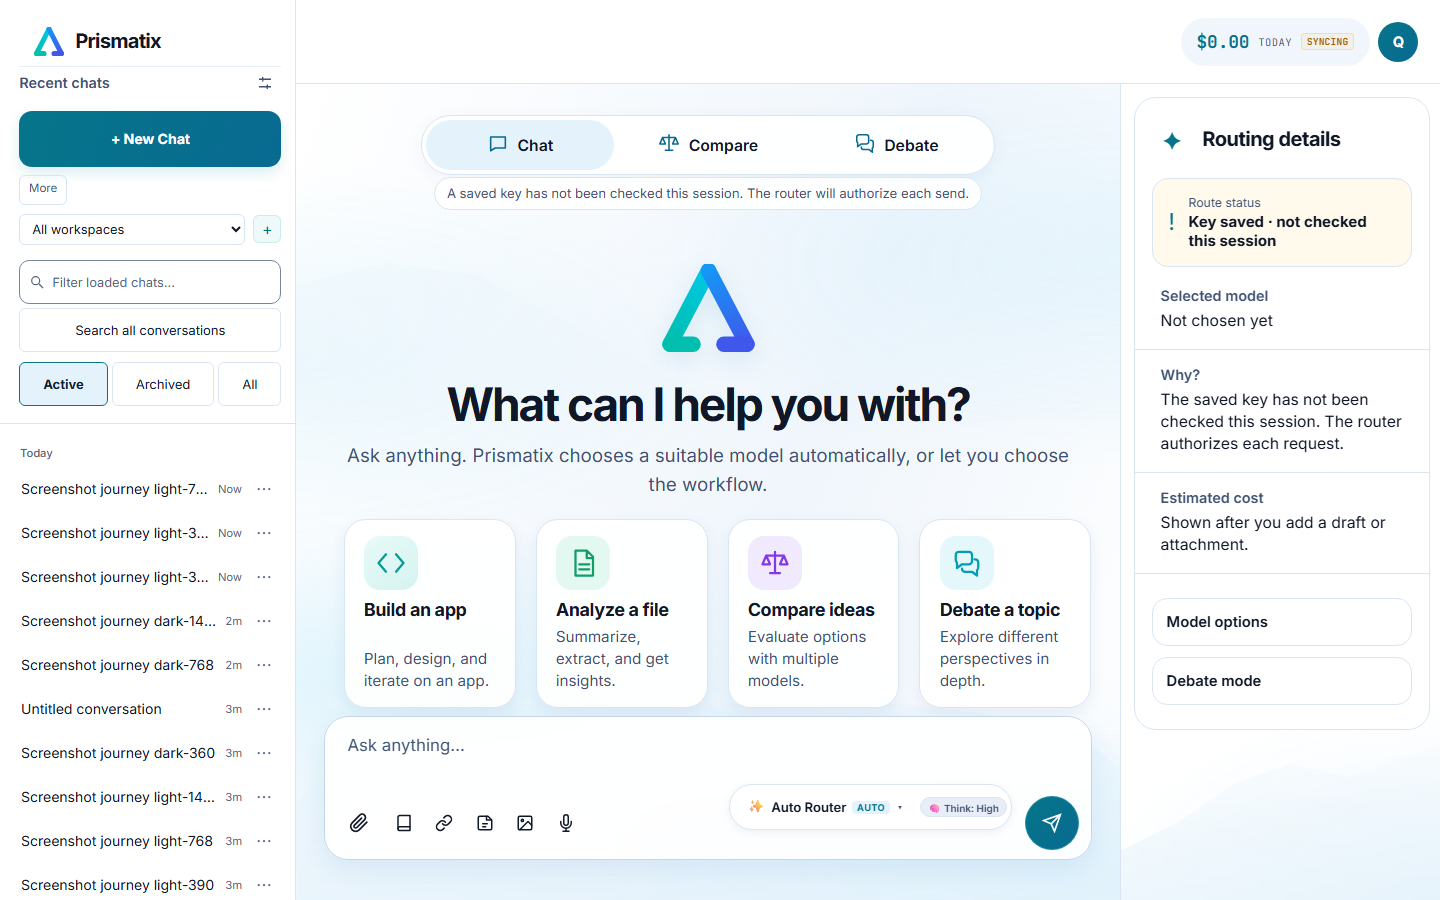
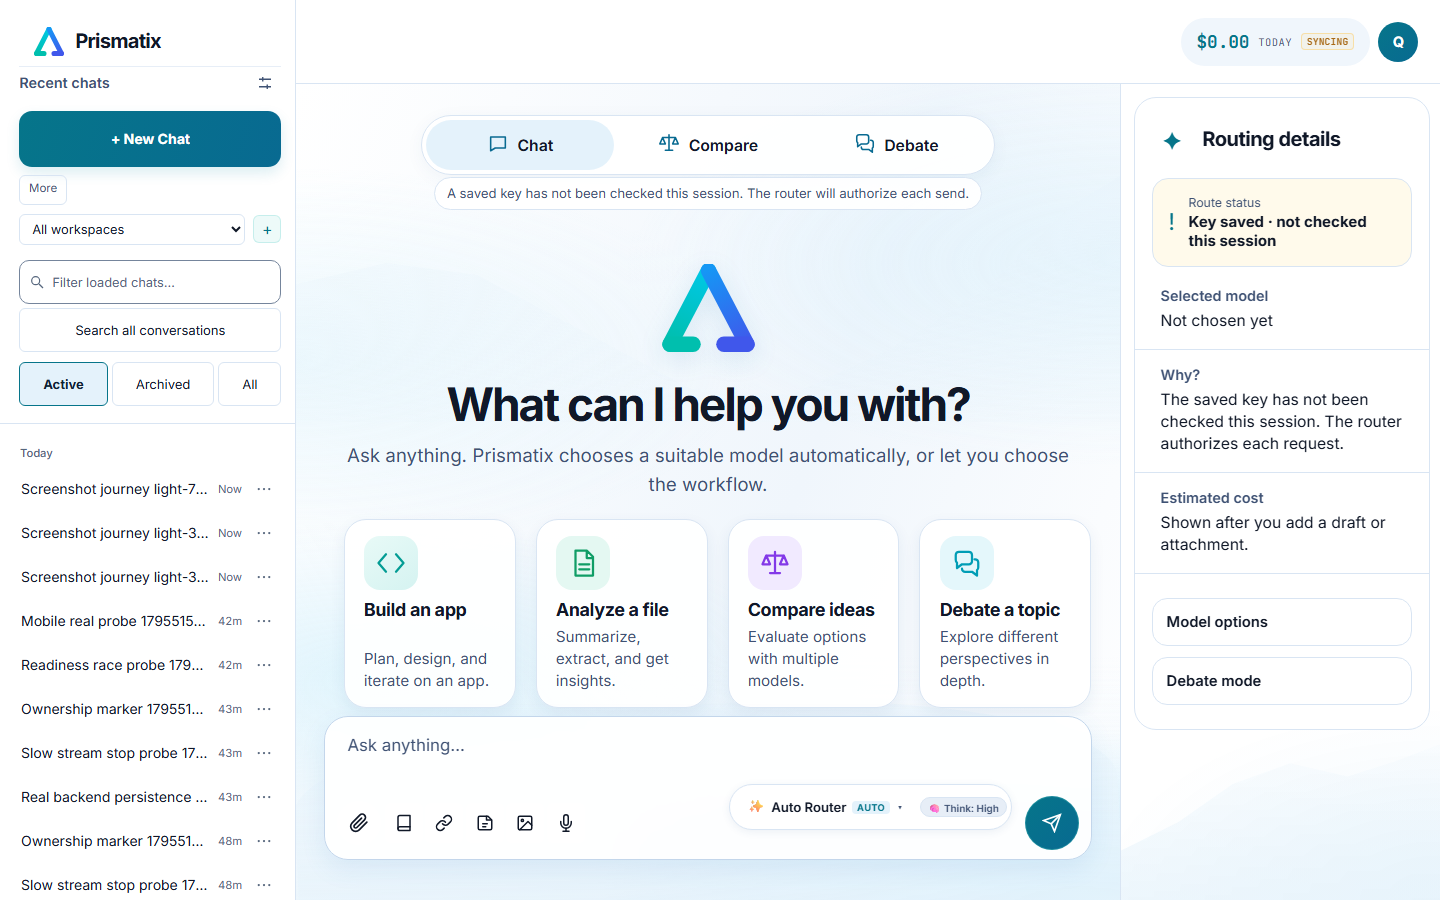
docs(qualification): tie the release record to the qualified candidate
- current-status section for 9aef6de with R1-R10 dispositions and evidence
- release-gate table, staging blocker, restricted features, deployment and
  recovery sequence, and explicit backlog
- older campaign narrative marked historical
- refreshed light/dark screenshots at 360/390/768/1440 from this candidate

Changed region(s): [[0.0, 0.8711, 0.1562, 0.9956], [0.0, 0.6844, 0.1562, 0.7467], [0.0, 0.7778, 0.1562, 0.84]]

diff --git a/docs/engineering/campaigns/2026-11-21-prismatix-qualification.md b/docs/engineering/campaigns/2026-11-21-prismatix-qualification.md
@@ -1,10 +1,153 @@
-# Prismatix stabilization and release evidence · 2026-11-21 UTC
+# Prismatix stabilization and release evidence
 
-GitHub `main` and the production Vercel deployment both resolve to
+## Current release status · 2026-11-24 (authoritative)
+
+**Qualified code candidate:** `9aef6de679a425302ad86b5a3e48d2b53818370a`
+on `campaign/overnight-2026-11-19`. This record and the refreshed screenshots
+are a documentation-only commit on top of it; the PR body links the exact-head
+CI run. Base `main` is `6a5c4cb0ad364490a1a0d959dcc60f68f63d7314`.
+PR [#73](https://github.com/gthgomez/Prismatix/pull/73) is open, draft and
+mergeable.
+
+**No merge, production migration, secret change, worker change, or production
+deployment was performed.** The Vercel preview remains **failing by design**
+(see Staging blocker).
+
+### Environment actually exercised
+
+Local Docker Supabase, CLI **2.98.2**: PostgreSQL 17, GoTrue Auth,
+PostgREST/RLS, Storage, and the Edge runtime, with all **34** migrations applied
+by the real runner. Two disposable Auth identities and a deterministic,
+non-billable provider substitute (`scripts/qualification/stub-provider.mjs`)
+through the router's `OPENROUTER_BASE_URL` seam. **No hosted Supabase
+environment was exercised.** The linked hosted project is production and was
+used for read-only inventory only.
+
+### Round-two findings and repairs
+
+| ID | Finding | What was done | Evidence |
+|---|---|---|---|
+| R1 | A settled cost log could still pair a settled total with estimated components: the router fell back to `costBreakdown` when `deriveSettledBreakdown` returned null. The `1e-6 × calls` tolerance also permitted materially wrong reconciliation for micro-costs. | `cost_logs.breakdown_source` (`confirmed` / `estimated` / `unavailable`) via migration `20261124090000`. Reconciliation is integer micro-USD and checks **each call individually** and the reservation total, so offsetting errors cannot pass. A settled total with no confirmed breakdown stores zero components and is marked `unavailable`; a pending total keeps `estimated`. Receipt projection exposes per-call usage/costs. `financeTracker`/CSV consume the provenance. | Real turn: `40`/`12` tokens, `0.00003 + 0.000045 = 0.000075`. `no-usage` turn: pending + `estimated`, components reconcile with the estimate. `zero` turn: settled + `confirmed`, all zero. 8 new unit cases, including aggregate cancellation and sub-precision money. |
+| R2 | Real-backend qualification was not in CI. | New `real-backend` job runs `scripts/qualification/ci-real-backend.sh`: stack, migrations, stub, functions, seed, acceptance gate, isolation checks, real Chromium suite, diagnostics upload, trap cleanup. | Job added to `.github/workflows/ci.yml`; see the PR checks for this head. |
+| R3 | Nonlocal overrides were boolean and did not prove identity. | `scripts/qualification/env-contract.mjs`: loopback allowed; hosted target requires an allowlisted `<ref>.supabase.co` project **and** `QUALIFICATION_ENVIRONMENT=staging|preview`; production denied even if allowlisted; router host must match; remote stubs allowlisted; credentials-in-URL rejected. Wired into seed/smoke/isolation/e2e/screens. The Vercel guard now also rejects production subdomains, malformed URLs, http, embedded credentials and loopback previews. | `npm run qual:env`: 14/14 negative controls pass. CI isolation job runs them and the new guard negatives. |
+| R4 | The smoke script printed outcomes without failing. | Rewritten as an acceptance gate. Expected money comes from a reviewed tariff constant and the fixture, not the implementation. It asserts status/content/execution identity/receipt/settlement/tokens/components/persistence/ownership/one chat call, rejects **10** corrupted variants, and proves the pending/estimated and settled/confirmed-zero states. | `npm run qual:smoke` → `ACCEPTED`, `10/10 negative controls rejected`, breakdown provenance accepted. |
+| R5 | Enter during provider initialization dropped the submission and left a sticky error; the visible status also said "until a provider is connected" while merely checking. | Submission is rejected without dispatch, the draft and attachments are preserved, the composer states "Checking provider setup — sending will be available in a moment", the transient notice clears when readiness resolves, and nothing is auto-sent. Both keyboard and button use the same readiness gate. | New real-backend test `Enter during provider readiness preserves the draft and dispatches nothing`: delayed real provider-settings response, `data-state` transitions `provider-checking → ready`, draft intact, zero calls before, exactly one after. |
+| R6 | Existing-installation testing was not an upgrade from main. | `tests/integration/run-main-upgrade.sh` builds a database from `origin/main`'s actual migration set (recorded in `supabase_migrations`), seeds historical data including an inconsistent cost log and a NOT VALID-guard target reservation, then upgrades with `supabase migration up --db-url`. Verifies history, guards, preserved totals/reservations, and spend aggregation. | Added to the migrations CI job. Local execution of the POSIX/Docker script was not possible on this Windows host; CI is the first execution. |
+| R7 | An intermittent New Chat timeout was unexplained. | Reproduced as host oversubscription: at the default 8 workers on a 16-thread host, different tests fail on each run with 30s timeouts (including "Loading Prismatix…" under a deliberate 12-worker ×2 stress), all pass in isolation, and the full suite passes with 4 workers (twice). Playwright workers are now bounded by `min(4, cpus-1)`. | Isolated reruns pass; `--workers=4` full desktop: 131 passed / 2 skipped, reproduced twice. |
+| R8 | Real browser tests used fixed sleeps. | Persistence waits for the settled receipt badge (emitted after transcript + cost-log writes) instead of 1.5s; cancellation uses a justified bounded quiet window that fails fast; reload waits for the recovery UI (mount complete) instead of 2.5s. The Edge runtime is warmed once; provider-call counting excludes separately metered memory extraction. | `tests/e2e-real/real_backend.spec.ts`. |
+| R9 | Formatting could turn nonzero micro-costs into `$0.0000` and used `$0.0000` for invalid data. | `formatUsd`: confirmed zero → `$0.0000`; unavailable/invalid/negative → `—`; `< $0.000001` → `<$0.000001`; sub-cent → 6 dp; otherwise 4 dp. CostBadge, SpendTracker and CSV use it; CSV exports at storage precision and includes provenance. | Unit cases for NaN/negative/null, sub-precision, boundary and micro amounts; component rows and reconcile note verified against a real settled receipt. |
+| R10 | The release record mixed superseded claims with current evidence. | This section replaces the old "current status" opening; everything below is explicitly historical. The PR description records the exact head, CI, preview status, environments and blockers. | This document and the PR body. |
+
+### Verification run on the code candidate
+
+| Check | Result |
+|---|---|
+| TypeScript (`tsc --noEmit`) | pass |
+| ESLint | 0 errors / 136 warnings (baseline unchanged) |
+| Vitest | **1092 passed**, 107 files |
+| Deno check (`router/index.ts`) | pass |
+| Production build (real + synthetic envs) | pass |
+| Synthetic desktop Chromium | **131 passed / 2 skipped** (Compare is opt-in) |
+| Synthetic mobile (CI subset) | **49 passed** |
+| Fresh migration replay through the CLI | **34 applied** (`db reset`) |
+| Environment-contract negatives | **14/14** |
+| Router acceptance gate | **ACCEPTED**; 10/10 negative controls rejected; pending/estimated and settled/confirmed-zero accepted |
+| Account isolation against real RLS | **14/14** |
+| Real-backend browser journeys (clean DB) | **5/5**: persistence+reload, mid-stream stop with no duplicate call or replay, cross-account history isolation, readiness race, mobile turn |
+| UI screenshots | Refreshed for this candidate at 360/390/768/1440 in light/dark (10 curated in `evidence/2026-11-24/screens`) |
+
+A full browser run must start from a clean database (`db reset` + `qual:seed`).
+Each turn reserves up to `$0.10` against the `$0.50` daily grant; failed or
+cancelled turns can leave `pending_reconcile` holds that eventually produce
+`402` responses. That is fixture exhaustion, not an application defect, and it
+is why repeated local runs cascade after a first failure.
+
+### Release gates
+
+| Criterion | Status | Note |
+|---|---|---|
+| No settled/estimated misrepresentation | VERIFIED (local) | R1 contract + unit and real-backend evidence |
+| Automated real-backend qualification | VERIFIED (local) / PARTIALLY VERIFIED (CI) | Job implemented; first CI execution is on this head |
+| Unsafe environments rejected | VERIFIED | 14 contract negatives + hardened Vercel guard negatives in CI |
+| Smoke fails on wrong business outcomes | VERIFIED | 10/10 mutations rejected |
+| Composer readiness repaired | VERIFIED | Real-backend regression |
+| Genuine main→candidate upgrade | PARTIALLY VERIFIED | Harness implemented and wired into CI; not executed locally |
+| Flake diagnosed | VERIFIED | Host oversubscription; worker cap |
+| Cost formatting | VERIFIED | Unit + rendered views |
+| Release record exact | VERIFIED | This section + PR body |
+| Hosted staging / preview | BLOCKED | No nonproduction project; provisioning requires authorization |
+| Hosted qualification | BLOCKED | Depends on staging |
+| Production merge/deployment | BLOCKED | Requires explicit production authorization |
+
+### Staging blocker (Track B)
+
+Current inventory: three Supabase projects (production Prismatix + two unrelated
+projects), zero preview branches for `sqjfbqjogylkfwzsyprd`, and Vercel Preview
+still resolves to the production project, which the isolation guard correctly
+refuses. No nonproduction project was provisioned and no billing/account change
+was made.
+
+**Exact remaining action:** authorize one of
+(a) a dedicated nonproduction Supabase project (or a paid preview branch) with
+its own Auth users, Edge secrets and provider allowlist, or
+(b) an existing authorized isolated project identity.
+Then set Preview-scoped `VITE_SUPABASE_URL`, `VITE_SUPABASE_ANON_KEY` and
+`VITE_ROUTER_ENDPOINT`, plus Edge secrets pointing at a deterministic provider,
+and re-run `qual:env` / `qual:smoke` / `qual:isolation` / `qual:e2e` against it
+with `QUALIFICATION_ALLOWED_PROJECT_REFS` and `QUALIFICATION_ENVIRONMENT`.
+Until then there is no reviewable preview and no hosted qualification.
+
+### Restricted capabilities
+
+- **Durable Compare** remains behind `VITE_PX08_COMPARE_DURABILITY` (default
+  off). Its tables/execution identity are migrated and the opt-in fixture
+  passes, but it has not been qualified on a hosted environment.
+- **Live image generation** remains disabled in client and server. The disabled
+  path is contained and tested; no deterministic image-provider seam exists to
+  qualify the live path safely, so it must not be presented as available.
+- **Video worker** remains disabled. Operations scripts are separated from
+  migrations and fail closed without `pg_cron`; managed extension privileges are
+  unverified.
+- **15 legacy direct-provider prices** remain unavailable pending authoritative
+  rate review. Fail-closed pricing was not weakened.
+
+### Deployment sequence and recovery
+
+1. Apply candidate migrations with the real runner; verify fresh replay **and**
+   the main→candidate upgrade (CI gates).
+2. Deploy Edge Functions before the frontend. Set release identity variables so
+   the client's catalog-skew hint is meaningful.
+3. Deploy the frontend with the matching protocol/schema/catalog versions.
+4. Keep Compare, image generation and the video worker disabled until their
+   gates pass; do not enable the scheduler during a deploy.
+5. Verify sign-in, one settled turn, cost-log provenance, conversation reload
+   and cross-account denial against the deployed environment.
+6. Recovery: frontend rollback is independent; Edge rollback is a function
+   redeploy; database changes require forward repair (the new column is
+   additive and nullable-by-default). Do not roll back a migration by replaying
+   an old production-targeted SQL file.
+
+### Backlog (deliberately not in this candidate)
+
+- Mobile header density at ≤390px (diagnostic catalog hint occupies a row).
+- Compact cost popover can overlap the composer's model row at 1440px.
+- `PRISMATIX_*` release-identity variables must be set on the hosted router or
+  every client shows "catalog may be outdated".
+- Physical Android and screen-reader qualification remain unperformed.
+
+---
+
+> Everything below this line documents earlier campaign states and is
+> **historical**. Where it conflicts with the section above, the section above
+> wins.
+
+# Historical record · 2026-11-21 campaign
+
+GitHub `main` and the production Vercel deployment both resolved to
 `6a5c4cb0ad364490a1a0d959dcc60f68f63d7314`. The public shell identifies
 `sqjfbqjogylkfwzsyprd.supabase.co` as its backend. Public HTTP checks returned
 200 for the shell, demo, recovery route and service worker, plus 404 for a missing
-asset. The connected Supabase inventory did not include the identified project.
+asset.
 [Production deployment](https://vercel.com/jonathan-gomez-aguilars-projects/prismatix/17qK2FFxyNdWjXbd9LsDMRvG3XGw)
 
 PR [#73](https://github.com/gthgomez/Prismatix/pull/73) is the integration branch.
